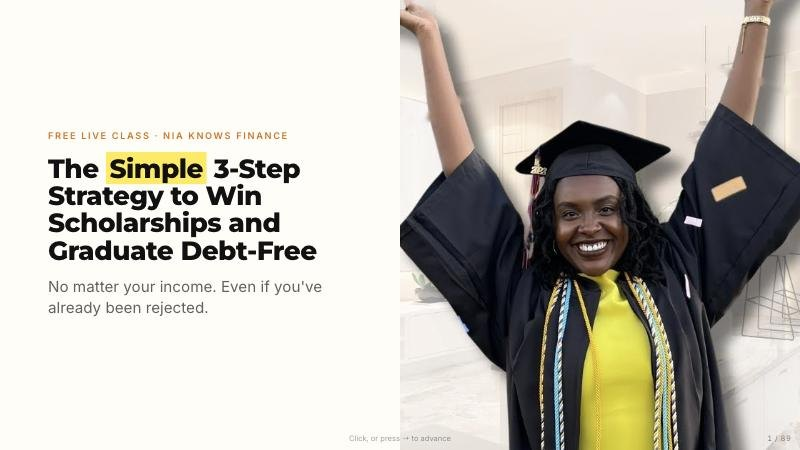
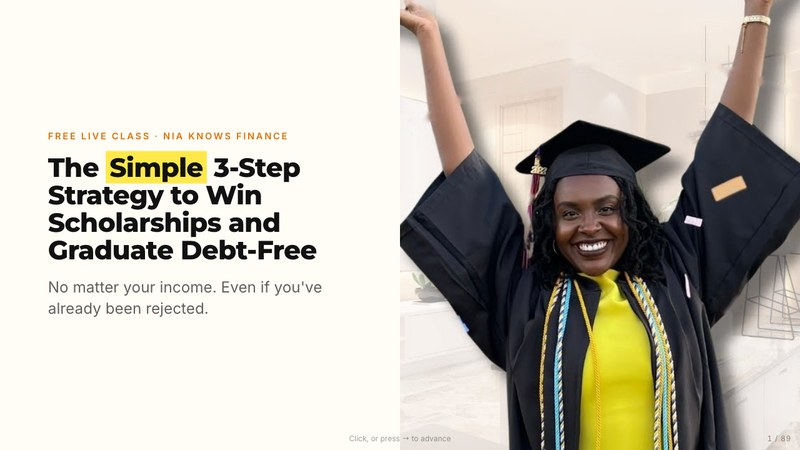
Refresh stale card thumbnails

diff --git a/index.html b/index.html
@@ -175,7 +175,7 @@
               <span class="pcard__body"><span><span class="pcard__kicker">Free full course on YouTube</span><span class="pcard__title">Your simple YouTube flywheel</span><span class="pcard__desc">One free full course, How to Win Scholarships and Pay for College, with two links under it: your free Scholarship Checklist and a way to work with you.</span></span><span class="pcard__link">Open preview <span class="arrow" aria-hidden="true"></span></span></span>
             </button>
             <button class="pcard reveal" data-title="Your proven webinar presentation" data-embed="webinar/?v=21" data-noanim>
-              <span class="thumb"><span class="thumb__bar"><i></i><i></i><i></i><span class="thumb__url">89 slides · click to advance</span></span><img class="thumb__img" src="assets/img/webinar-preview.jpg?v=30" alt="Your proven webinar presentation preview" loading="lazy" /></span>
+              <span class="thumb"><span class="thumb__bar"><i></i><i></i><i></i><span class="thumb__url">89 slides · click to advance</span></span><img class="thumb__img" src="assets/img/webinar-preview.jpg?v=t2138" alt="Your proven webinar presentation preview" loading="lazy" /></span>
               <span class="pcard__body"><span><span class="pcard__kicker">Free live class · 89 slides</span><span class="pcard__title">Your proven webinar presentation</span><span class="pcard__desc">The Simple 3-Step Strategy to Win Scholarships and Graduate Debt-Free. Your story, the 3 steps, your own numbers, then College Cash Coaching and &ldquo;See if you qualify&rdquo;.</span></span><span class="pcard__link">Open preview <span class="arrow" aria-hidden="true"></span></span></span>
             </button>
           </div>
@@ -210,15 +210,15 @@
           </div>
           <div class="grid grid--3">
             <button class="pcard reveal" data-title="Your static ad" data-embed="static-ad/?v=23" data-noanim>
-              <span class="thumb"><span class="thumb__bar"><i></i><i></i><i></i><span class="thumb__url">Sponsored · in feed</span></span><img class="thumb__img" src="assets/img/staticad-preview.jpg?v=30" alt="Your static ad preview" loading="lazy" /></span>
+              <span class="thumb"><span class="thumb__bar"><i></i><i></i><i></i><span class="thumb__url">Sponsored · in feed</span></span><img class="thumb__img" src="assets/img/staticad-preview.jpg?v=t2138" alt="Your static ad preview" loading="lazy" /></span>
               <span class="pcard__body"><span><span class="pcard__kicker">Static ads · 2</span><span class="pcard__title">Your static ads</span><span class="pcard__desc">Two text-on-image ads designed specifically for you, in your colours and photos. Both invite families to your free class.</span></span><span class="pcard__link">Open preview <span class="arrow" aria-hidden="true"></span></span></span>
             </button>
             <button class="pcard reveal" data-title="Your carousel ad" data-embed="carousel/?v=23" data-noanim>
-              <span class="thumb"><span class="thumb__bar"><i></i><i></i><i></i><span class="thumb__url">Sponsored · 9 cards</span></span><img class="thumb__img" src="assets/img/carousel-preview.jpg?v=30" alt="Your carousel ad preview" loading="lazy" /></span>
+              <span class="thumb"><span class="thumb__bar"><i></i><i></i><i></i><span class="thumb__url">Sponsored · 9 cards</span></span><img class="thumb__img" src="assets/img/carousel-preview.jpg?v=t2138" alt="Your carousel ad preview" loading="lazy" /></span>
               <span class="pcard__body"><span><span class="pcard__kicker">Carousel ad · 9 cards</span><span class="pcard__title">Your carousel ad</span><span class="pcard__desc">Nine cards designed specifically for you, from the tuition bill to your free class.</span></span><span class="pcard__link">Open preview <span class="arrow" aria-hidden="true"></span></span></span>
             </button>
             <button class="pcard reveal" data-title="Your ad scripts" data-embed="ad-scripts/?v=23" data-noanim>
-              <span class="thumb"><span class="thumb__bar"><i></i><i></i><i></i><span class="thumb__url">3 scripts · copy ready</span></span><img class="thumb__img" src="assets/img/adscripts-preview.jpg?v=30" alt="Your ad scripts preview" loading="lazy" /></span>
+              <span class="thumb"><span class="thumb__bar"><i></i><i></i><i></i><span class="thumb__url">3 scripts · copy ready</span></span><img class="thumb__img" src="assets/img/adscripts-preview.jpg?v=t2138" alt="Your ad scripts preview" loading="lazy" /></span>
               <span class="pcard__body"><span><span class="pcard__kicker">Ad copy · 3 angles</span><span class="pcard__title">Your ad scripts</span><span class="pcard__desc">Three angles that fill your free class, each ending with &ldquo;Comment the word SCHOLARSHIP&rdquo;.</span></span><span class="pcard__link">Open preview <span class="arrow" aria-hidden="true"></span></span></span>
             </button>
           </div>
@@ -232,7 +232,7 @@
           </div>
           <div class="grid grid--3">
             <button class="pcard reveal" data-title="Your pre-webinar emails" data-embed="pre-webinar/?v=20" data-noanim>
-              <span class="thumb"><span class="thumb__bar"><i></i><i></i><i></i><span class="thumb__url">10 emails · sign-up to live</span></span><img class="thumb__img" src="assets/img/emails-pre-preview.jpg?v=30" alt="Your pre-webinar emails preview" loading="lazy" /></span>
+              <span class="thumb"><span class="thumb__bar"><i></i><i></i><i></i><span class="thumb__url">10 emails · sign-up to live</span></span><img class="thumb__img" src="assets/img/emails-pre-preview.jpg?v=t2138" alt="Your pre-webinar emails preview" loading="lazy" /></span>
               <span class="pcard__body"><span><span class="pcard__kicker">Pre-webinar · 10 emails</span><span class="pcard__title">Your pre-webinar emails</span><span class="pcard__desc">From &ldquo;You&rsquo;re in!&rdquo; to &ldquo;You still in?&rdquo;. Stories, a reason to show up and a reminder at every step, with no pitch.</span></span><span class="pcard__link">Open preview <span class="arrow" aria-hidden="true"></span></span></span>
             </button>
             <button class="pcard reveal" data-title="Your post-webinar emails" data-embed="post-webinar/?v=20" data-noanim>
